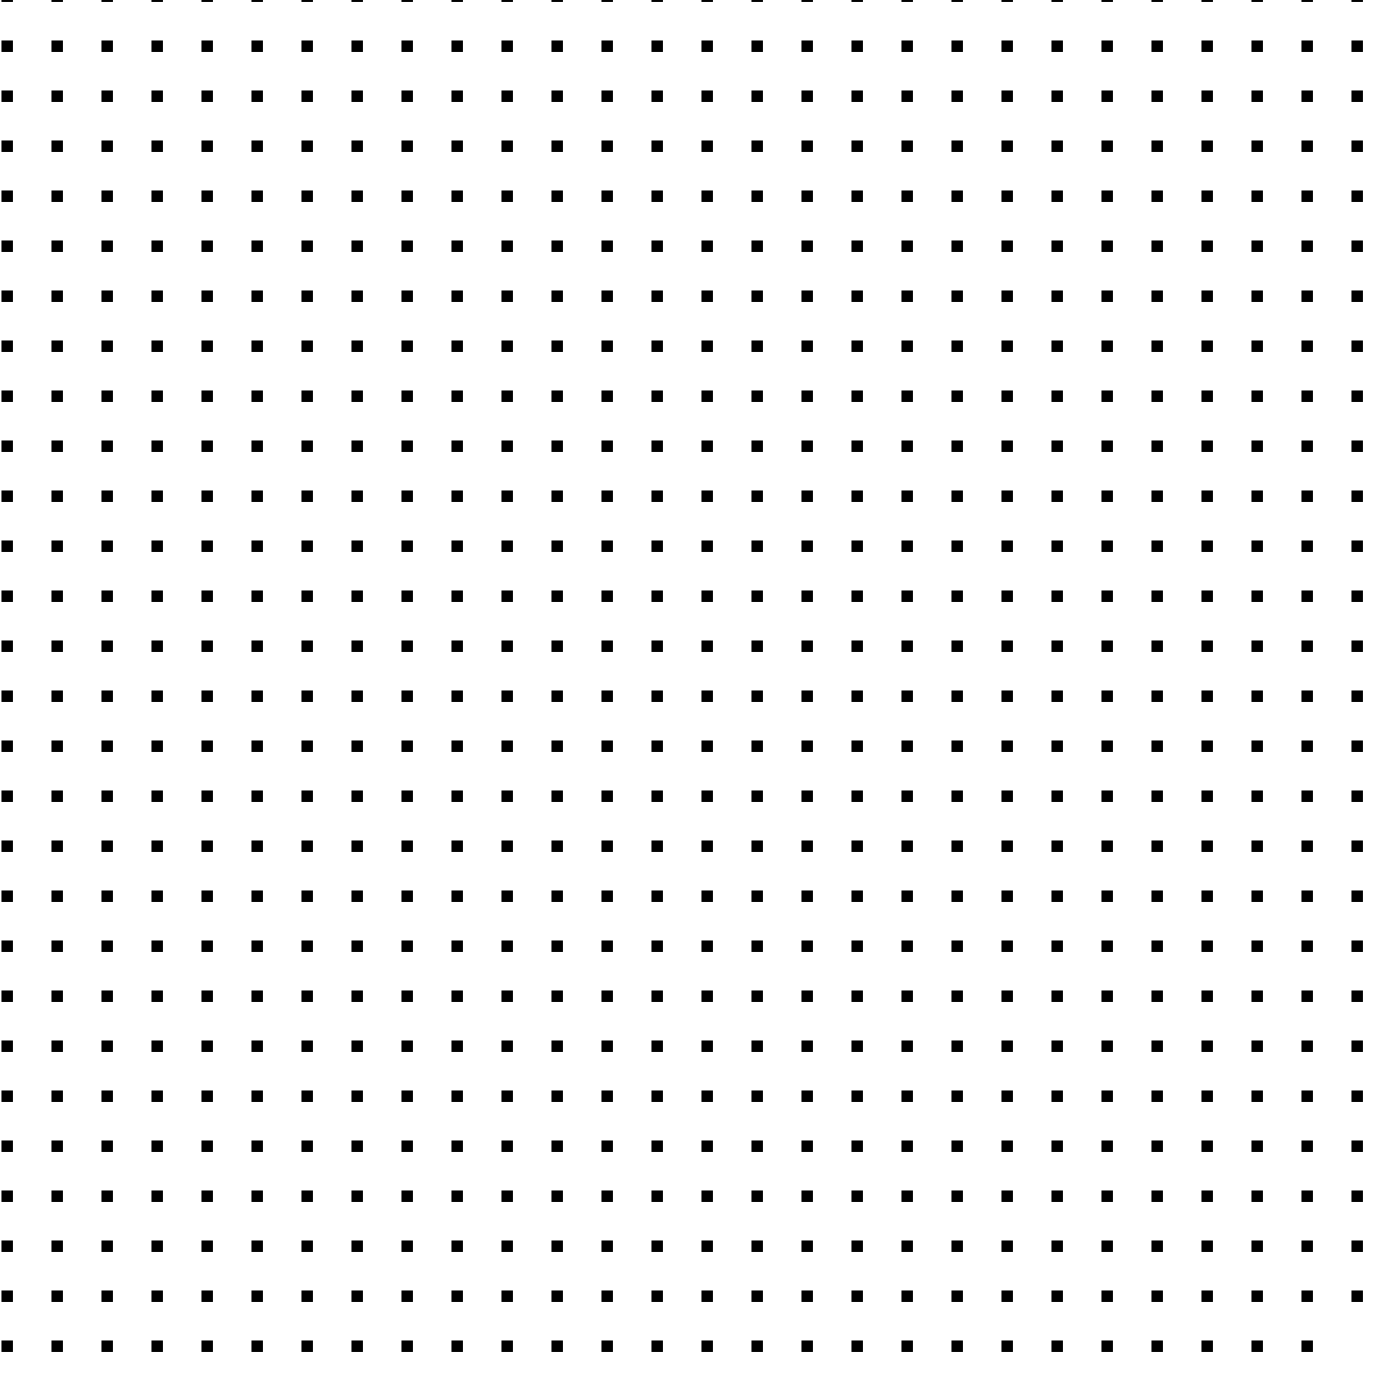
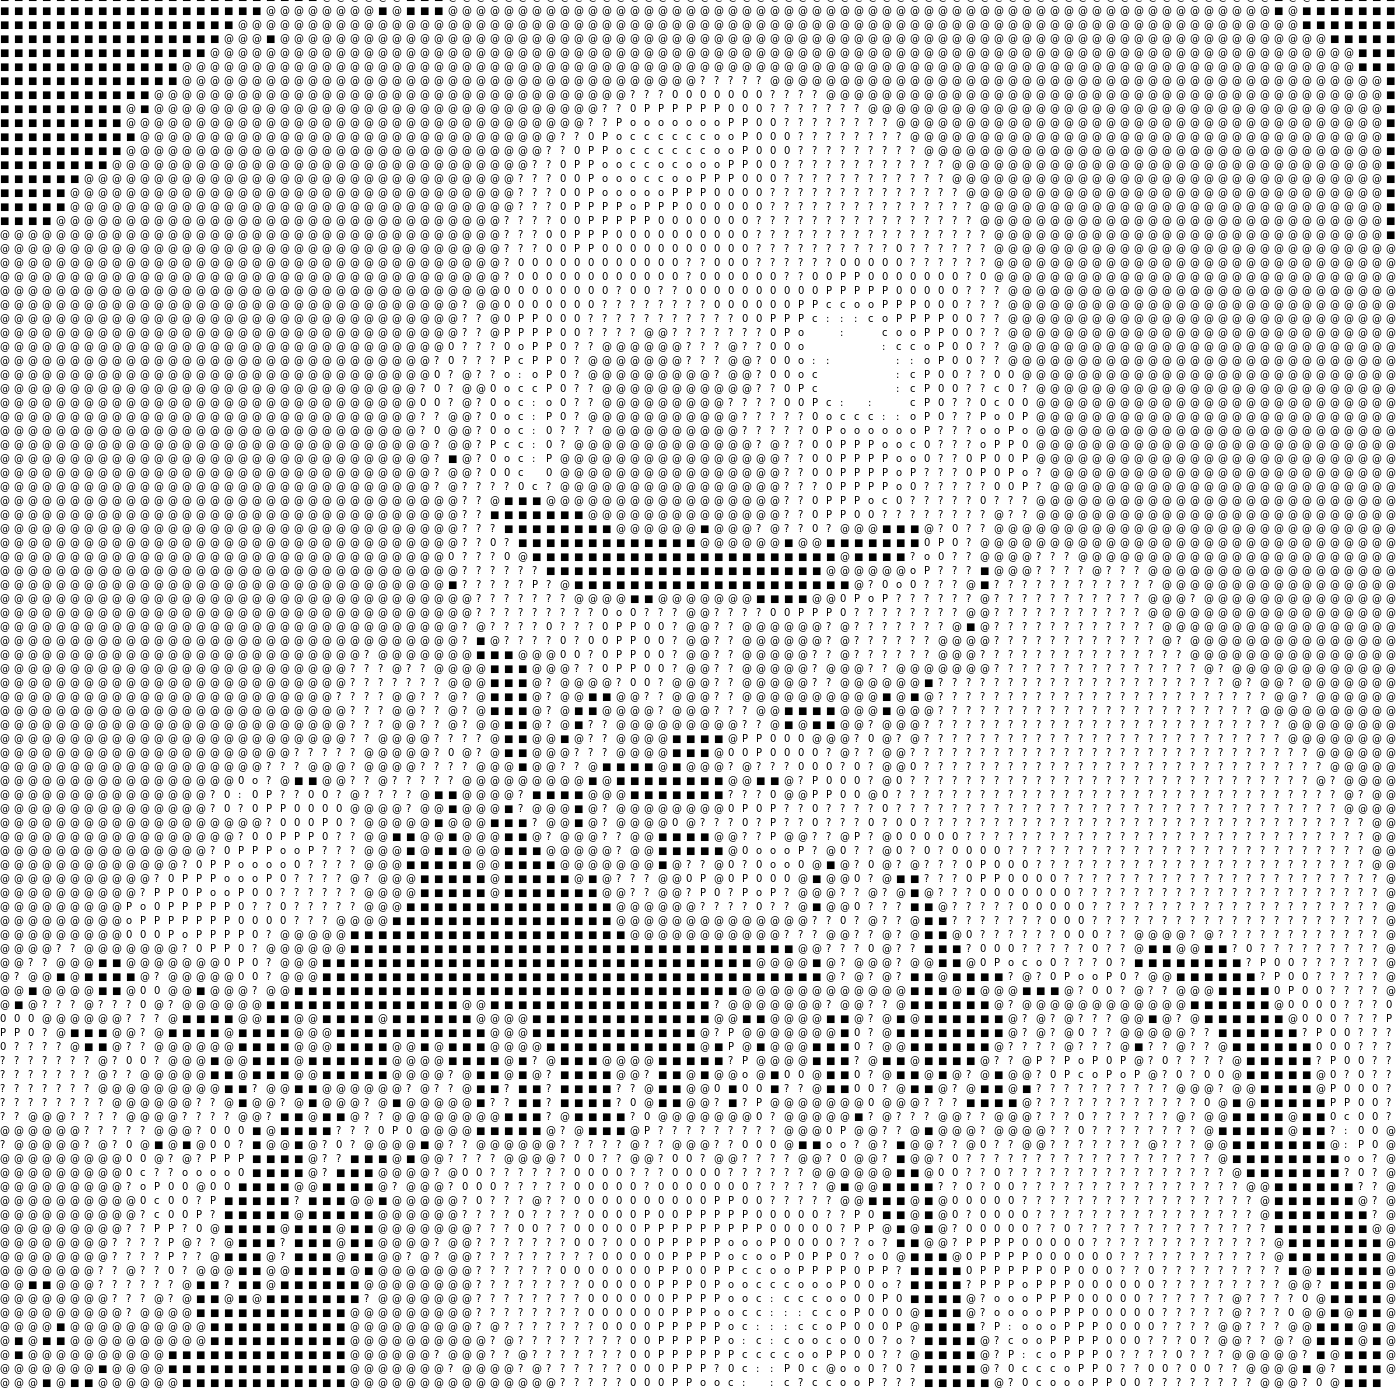
fix: fixed getPixelMatrix

Changed region(s): [[0.0, 0.0, 1.0, 1.0]]

diff --git a/src/services/processing.ts b/src/services/processing.ts
@@ -1,7 +1,7 @@
 import { SOBEL_THRESHOLD } from "../index.js";
 
 export function calculateAverageProximalLuminance(
-  matrix: any,
+  matrix: Types.Matrix,
   cellSide: number,
   height: number,
   width: number
@@ -23,21 +23,26 @@ export function calculateAverageProximalLuminance(
   return outputLuminocity;
 }
 
-export function getPixelMatrix(data: Buffer | Types.FlatPixelData, height: number, width: number): any {
+export function getPixelMatrix(data: Buffer | Types.FlatPixelData, height: number, width: number): Types.Matrix {
   const matrix = makeEmptyMatrix(width, height);
   let row = 0;
+  let column = 0;
 
-  try {
-    for (const pixel of data) {
-      if (matrix[row].length >= width) {
-        row++;
-        matrix[row].push(pixel);
-      } else {
-        matrix[row].push(pixel);
-      }
+  for (let i = 0; i < data.length; i++) {
+    const pixel = data[i];
+
+    matrix[row][column] = pixel;
+
+    column++;
+
+    if (column >= width) {
+      column = 0;
+      row++;
     }
-  } catch (error) {
-    console.log(error);
+
+    if (row >= height) {
+      break;
+    }
   }
 
   return matrix;
@@ -51,7 +56,11 @@ function makeEmptyMatrix(width: number, height: number): Array<number[]> {
   return matrix;
 }
 
-export function detectEdges(matrix: any, width: number, height: number): { magnitudes: any; directions: any } {
+export function detectEdges(
+  matrix: Types.Matrix,
+  width: number,
+  height: number
+): { magnitudes: Types.Matrix; directions: Types.Matrix } {
   const kernels = {
     x: [
       [-1, 0, 1],

diff --git a/src/index.ts b/src/index.ts
@@ -4,9 +4,9 @@ import { setupCanvas, writeAscii, writeToFileSystem } from "./services/writer.js
 import { convertToAscii } from "./services/conversion.js";
 import { readGreyscaleImage } from "./services/reader.js";
 
-export const CELL_SIDE = 50;
-export const SOBEL_THRESHOLD = 50;
-export const FONT_SIZE = 15;
+export const CELL_SIDE = 14;
+export const SOBEL_THRESHOLD = 900;
+export const FONT_SIZE = 10;
 
 const __dirname = process.cwd();
 const imagePath = process.argv[2];

diff --git a/src/services/reader.ts b/src/services/reader.ts
@@ -1,7 +1,7 @@
 import sharp from "sharp";
 
 export async function readGreyscaleImage(path: string): Promise<{ data: Buffer; width: number; height: number }> {
-  const { data, info } = await sharp(path).greyscale().blur().raw().toBuffer({ resolveWithObject: true });
+  const { data, info } = await sharp(path).greyscale().raw().toBuffer({ resolveWithObject: true });
   const { width, height } = info;
   return { data, width, height };
 }

diff --git a/src/services/conversion.ts b/src/services/conversion.ts
@@ -33,7 +33,7 @@ export function findAppropriateEdgeCharacter(direction: number): string {
   }
 }
 
-export function convertToAscii(matrix: any, magnitudes: any, directions: any) {
+export function convertToAscii(matrix: Types.Matrix, magnitudes: Types.Matrix, directions: Types.Matrix) {
   const output: string[] = [];
 
   for (let i = 0; i < CONVERTED_HEIGHT; i++) {
